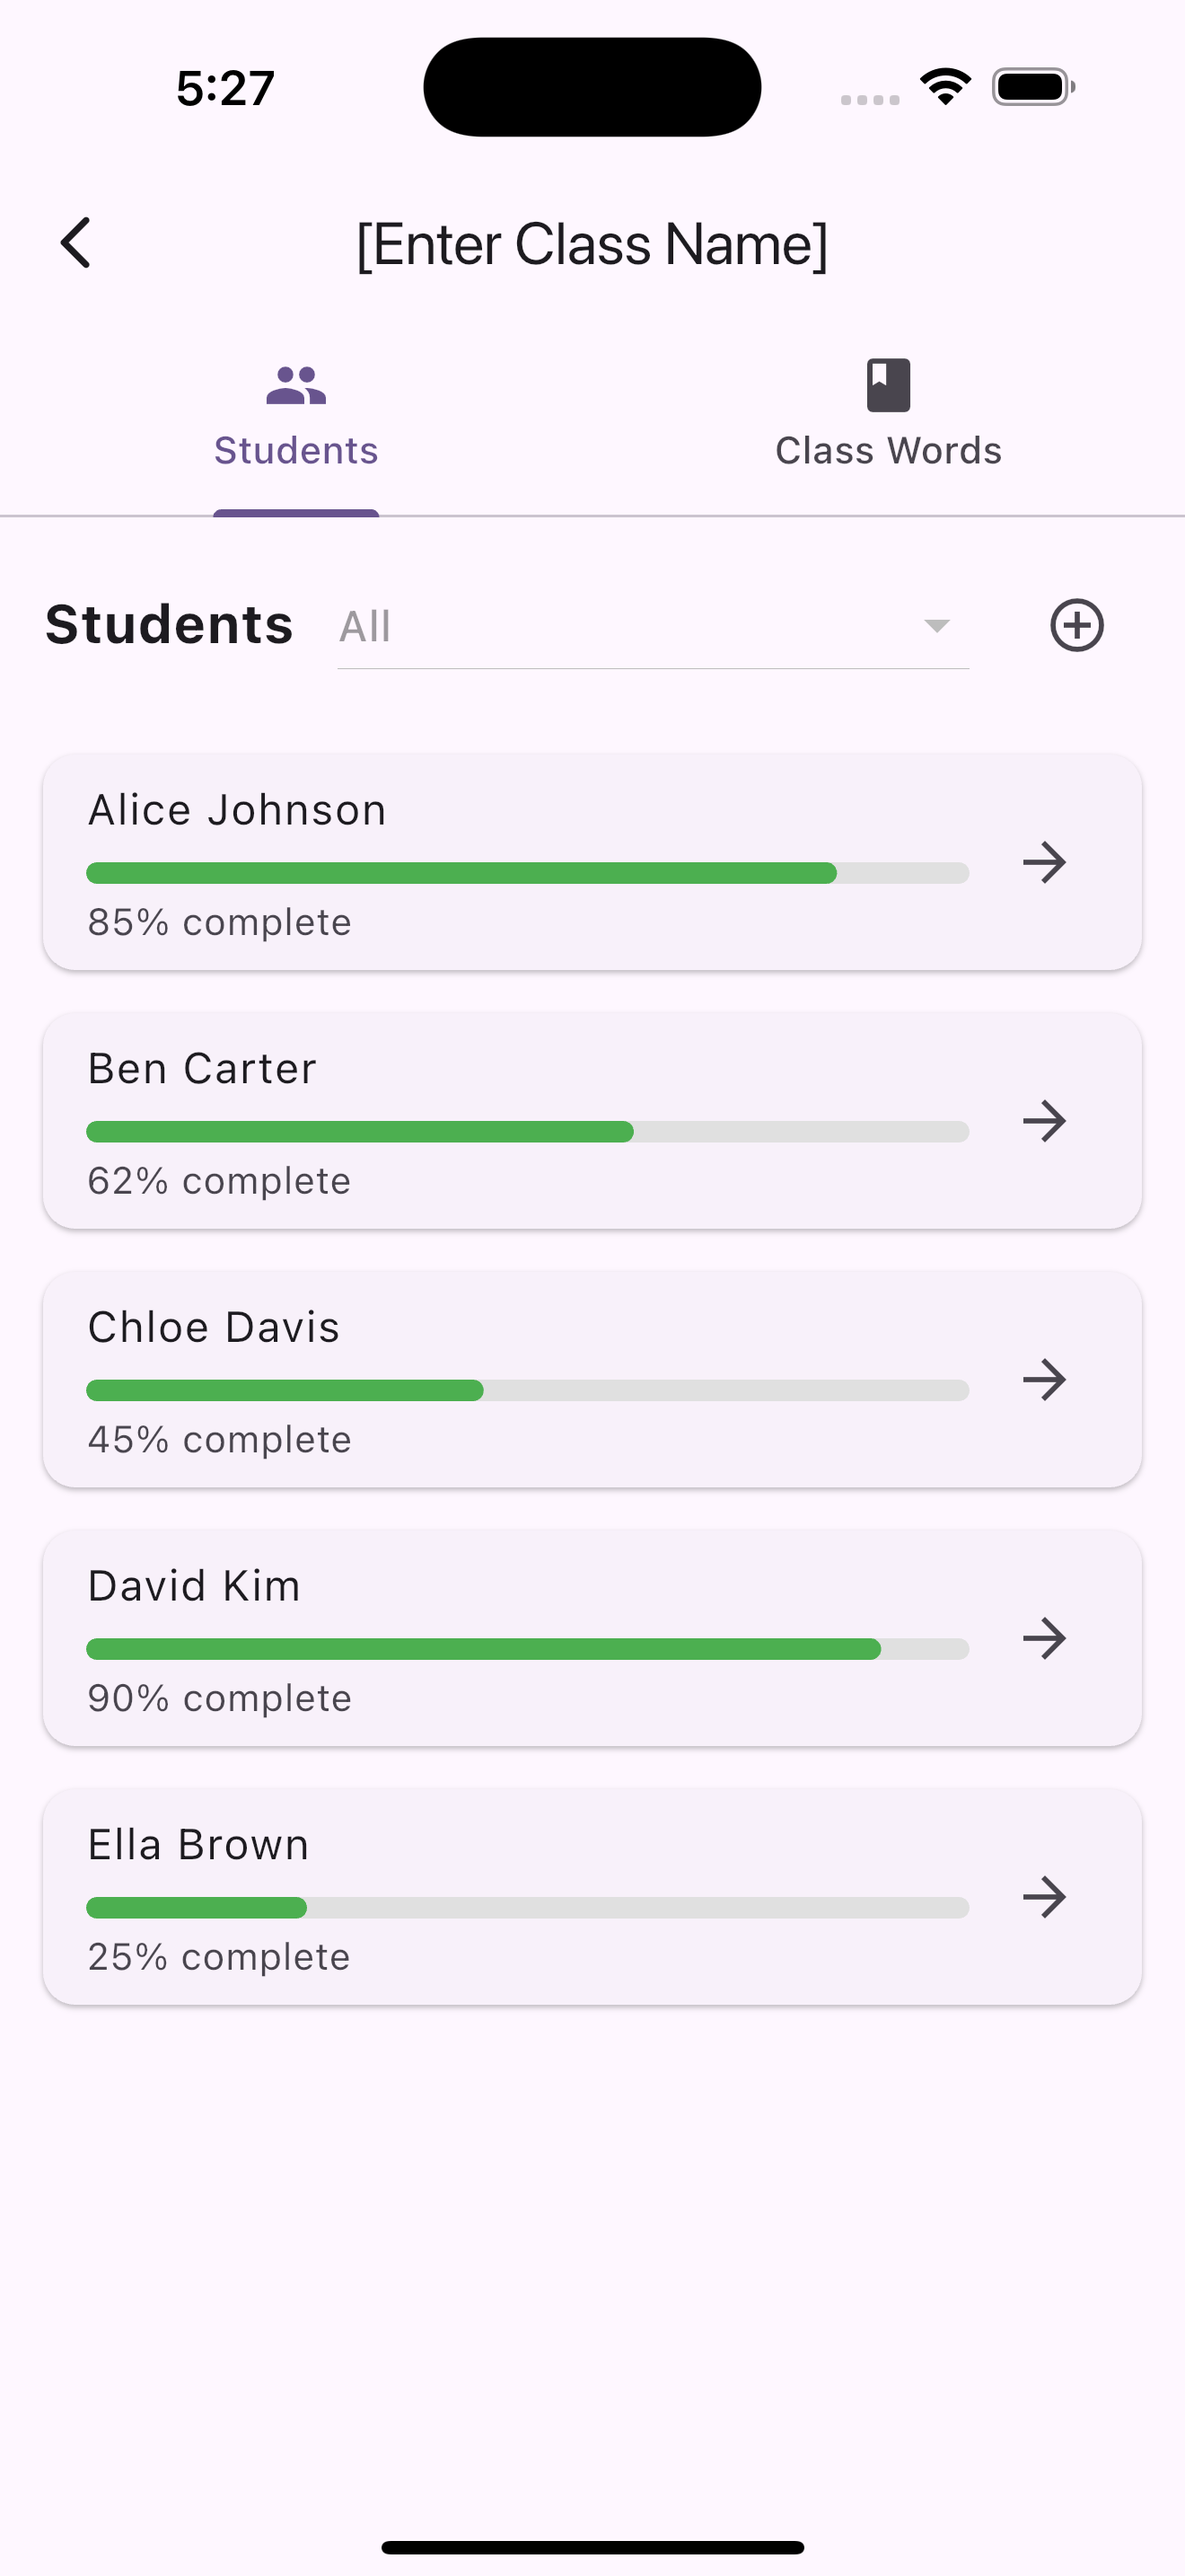
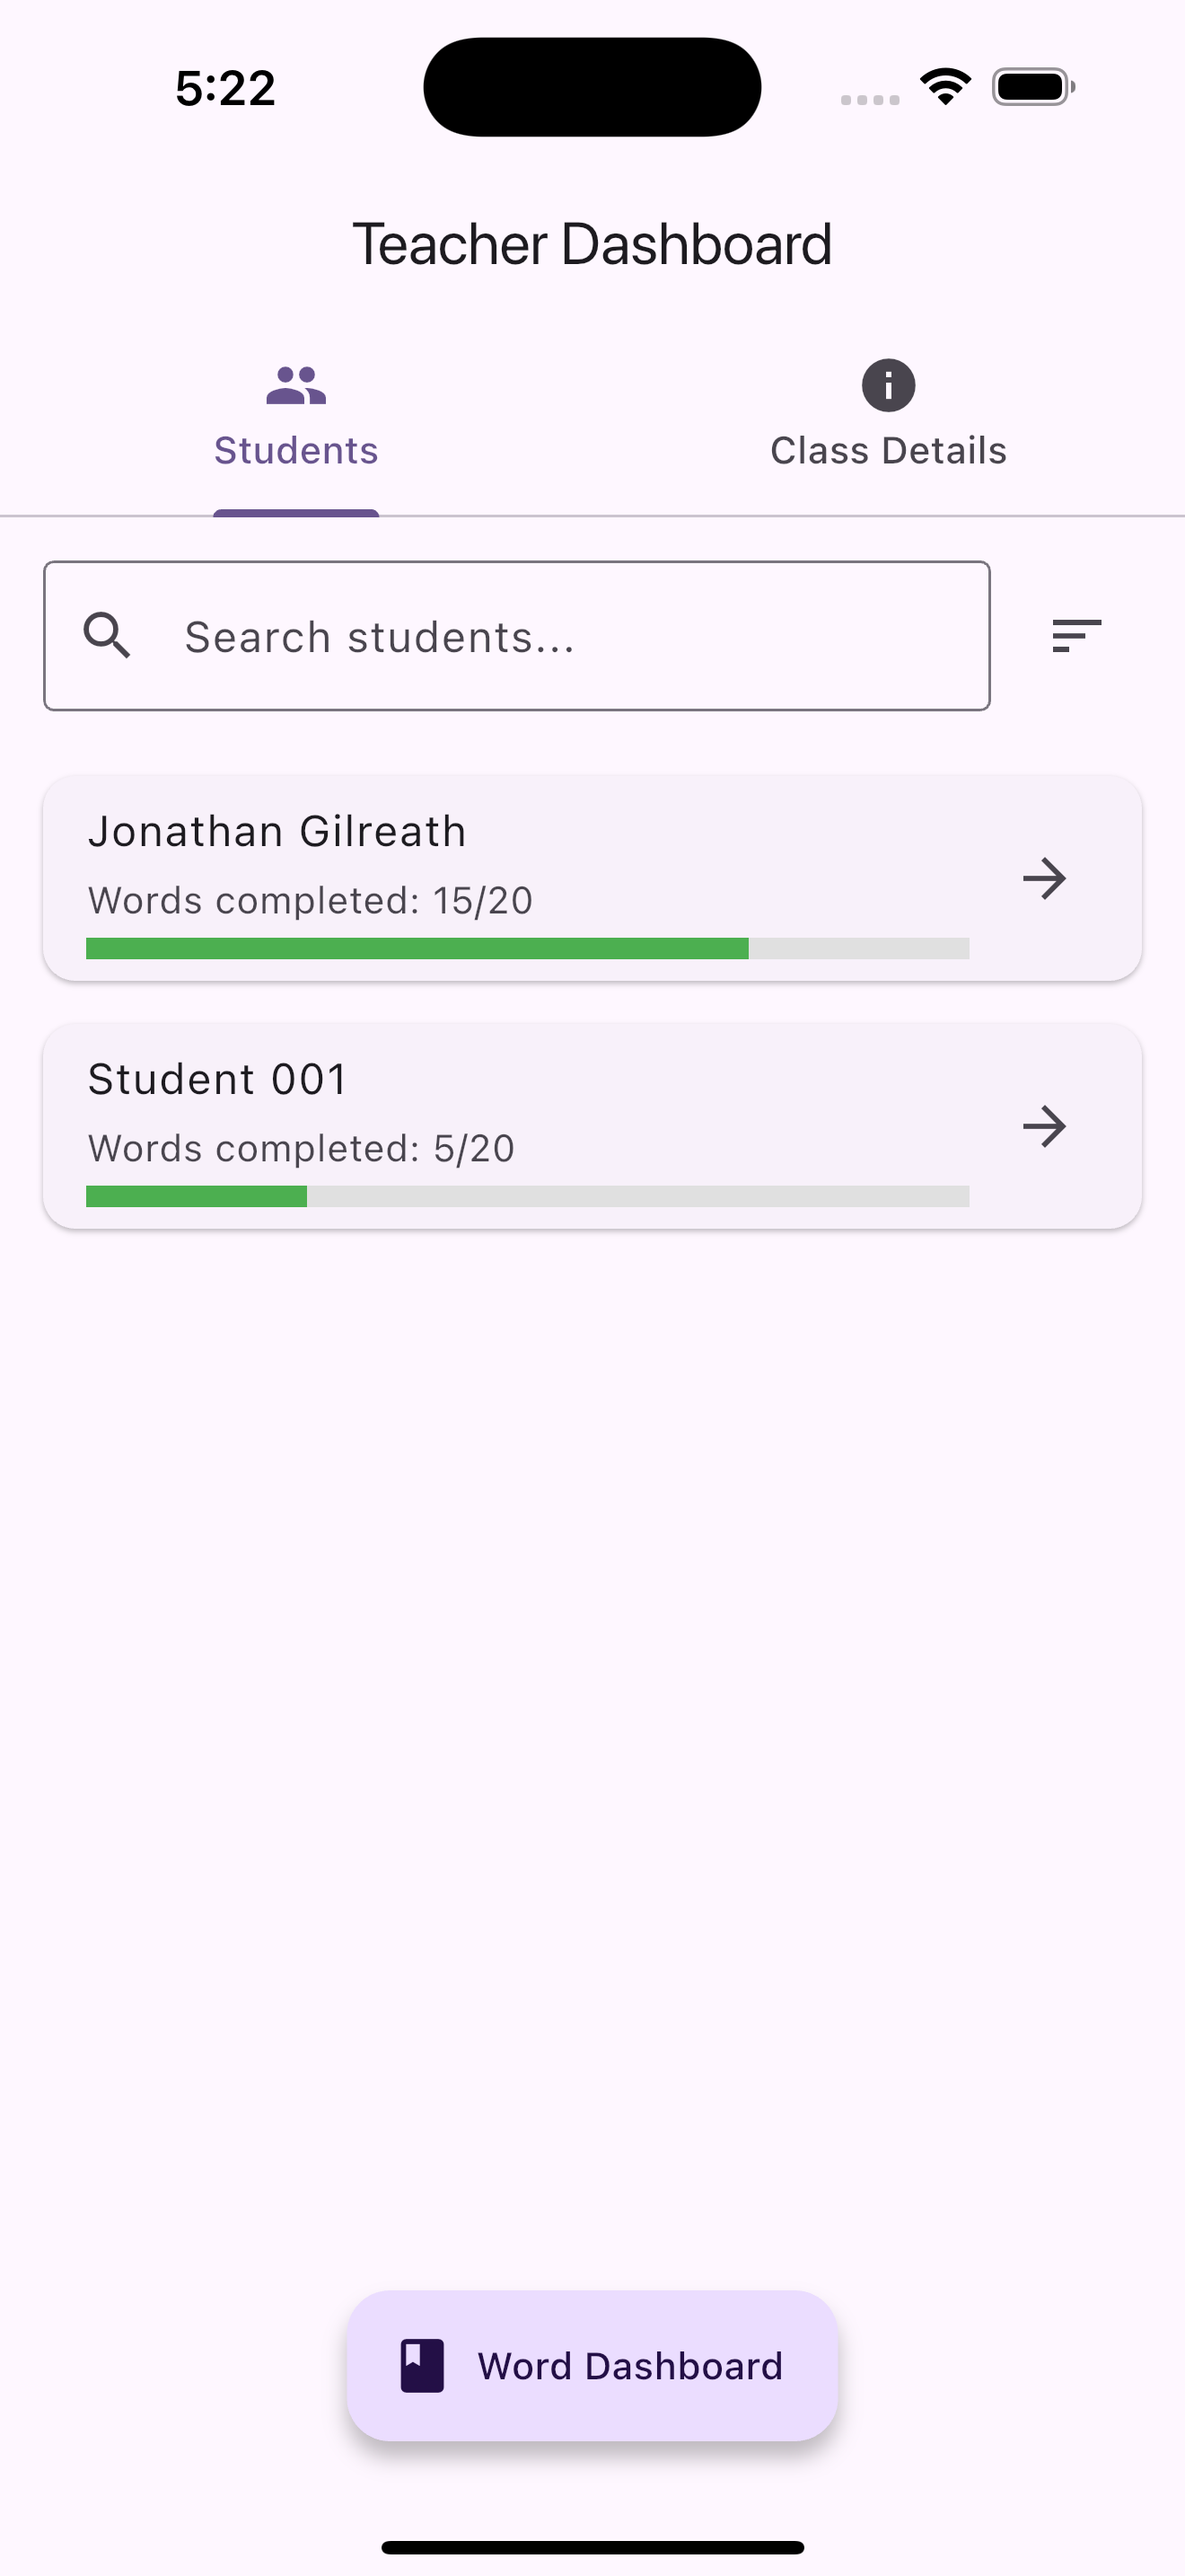
feat: Add in new images for the screens where necessary.

diff --git a/docs/milestone1/README_Milestone1.md b/docs/milestone1/README_Milestone1.md
@@ -331,13 +331,17 @@ The following screens showcase teacher interfaces for the application:
 |:--:|:--:|
 | ![Login](./images/screen_teacher_login.png) | ![Registration](./images/screen_teacher_registration.png) |
 
-| Class Dashboard | Class Progress | Class Word List |
+<!-- | Class Dashboard | Class Progress | Class Word List |
 |:--:|:--:|:--:|
-| ![Login](./images/screen_teacher_class_dashboard.png) | ![Password Reset](./images/screen_teacher_class_progress.png) | ![Registration](./images/screen_teacher_class_word_list.png) |
+| ![Login](./images/screen_teacher_class_dashboard.png) | ![Password Reset](./images/screen_teacher_class_progress.png) | ![Registration](./images/screen_teacher_class_word_list.png) | -->
 
-| Student Details | Word Dashboard |
+| Teacher Dashboard (Student Progress) | Teacher Dashboard (Class Details) |
 |:--:|:--:|
-| ![Student Details](./images/screen_teacher_student_details.png) | ![Word Dashboard](./images/screen_teacher_word_dashboard.png) |
+| ![Login](./images/screen_teacher_class_progress.png) | ![Registration](./images/screen_teacher_class_details.png) |
+
+| Student Details | Word Dashboard (Edit) |
+|:--:|:--:|
+| ![Student Details](./images/screen_teacher_student_details.png) | ![Word Dashboard](./images/screen_teacher_word_dashboard_edit.png) |
 
 ### Student Flow
 The following screens showcase student interfaces for the application:
